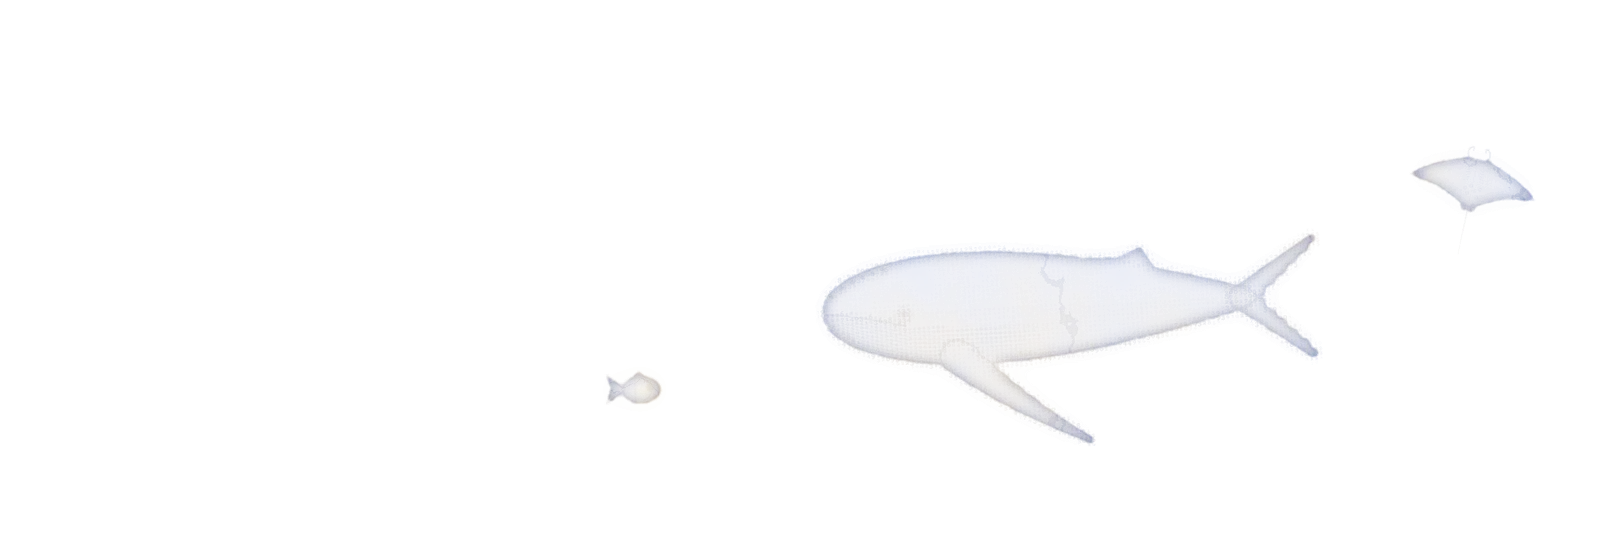
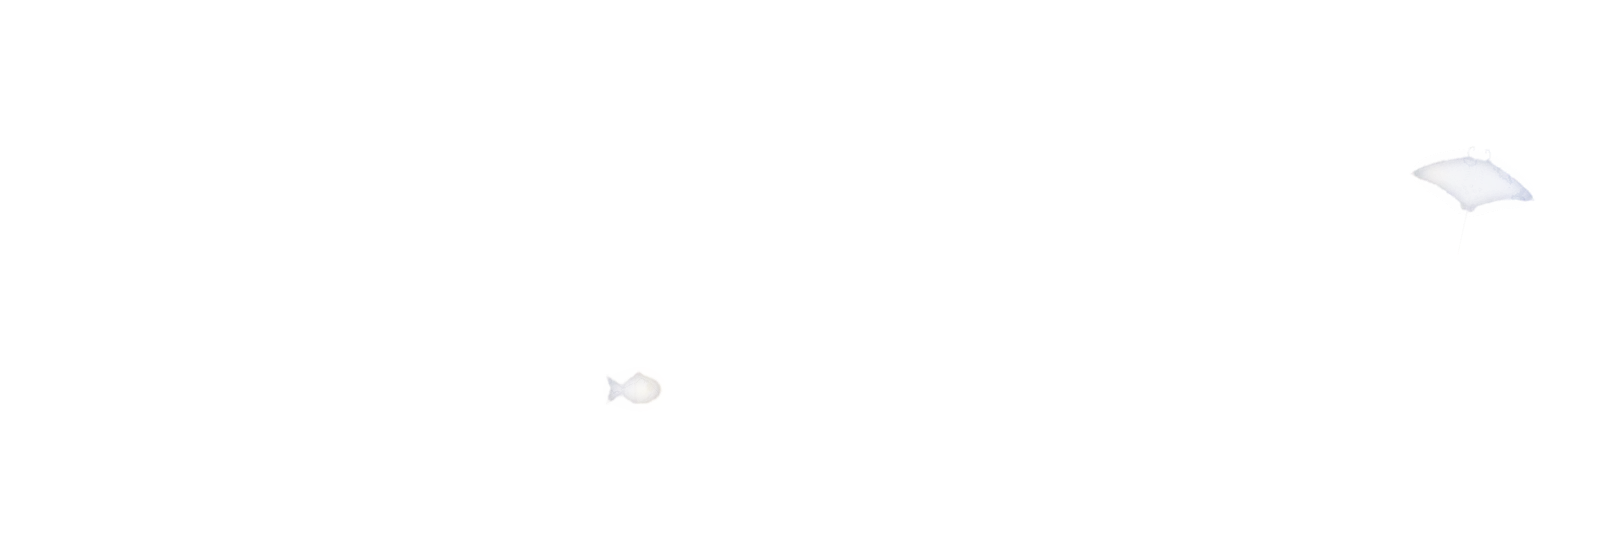
Home: quieter painted sheet, no whale, a few brushed swells
Creatures painted at 60% strength and fainter stars; the whale by the
heading is gone (a fish and a manta stay); a seamless tile of faint
dry-brush wave strokes sits over the wash.

diff --git a/scripts/paint/creatures.py b/scripts/paint/creatures.py
@@ -1,7 +1,8 @@
 # Paints the sky cast as watercolour for the homepage projects sheet.
-#   creatures-top.webp     whale (+ a manta) beside the "Selected work" heading
+#   creatures-top.webp     a fish and a manta beside the "Selected work" heading
 #   creatures-bottom.webp  turtle, sea star and fish on a painted sea floor under the last row
 #   stars-tile.webp        seamless sparse painted stars
+#   waves-tile.webp        seamless faint watercolour wave strokes
 # Shapes come from the site's own sky-cast.js fields (rendered by shapes.mjs),
 # so they match the creatures drifting in the background sky.
 import sys, json, numpy as np
@@ -61,6 +62,7 @@ def paint(name, scale, seed, rot=0, flip=False, digits=.5, tint=0.):
     da = Dn[..., 3] * digits
     out[..., :3] = out[..., :3] * (1 - da[..., None]) + CREAM * da[..., None]
     out[..., 3] = np.clip(out[..., 3] + da * (1 - out[..., 3]), 0, 1)
+    out[..., 3] *= 0.6                                    # quiet: a glaze, not a sticker
     im = Image.fromarray(np.clip(np.dstack([out[..., :3], out[..., 3:] * 255]), 0, 255).astype(np.uint8), 'RGBA')
     if flip: im = im.transpose(Image.FLIP_LEFT_RIGHT)
     if rot: im = im.rotate(rot, Image.BICUBIC, expand=True)
@@ -69,9 +71,8 @@ def paint(name, scale, seed, rot=0, flip=False, digits=.5, tint=0.):
 def over(canvas, im, x, y):
     canvas.alpha_composite(im, (int(x - im.width / 2), int(y - im.height / 2)))
 
-# ---- top: the whale beside the heading, a manta further out ----
+# ---- top: a fish beside the heading, a manta further out ----
 top = Image.new('RGBA', (1600, 560))
-over(top, paint('whale', .66, 11, rot=4), 1060, 300)
 over(top, paint('manta', .42, 21, rot=-12, digits=.45), 1470, 200)
 over(top, paint('fish', .55, 31, flip=True, digits=.5, tint=.3), 640, 390)
 top.save(f'{OUT}/creatures-top.webp', quality=78, alpha_quality=70, method=6)
@@ -105,7 +106,7 @@ for i in range(26):
     spikes = (np.exp(-(np.abs(xx) / (s * .18)) ** 2) * np.exp(-(np.abs(yy) / (s * 2.6)) ** 2) +
               np.exp(-(np.abs(yy) / (s * .18)) ** 2) * np.exp(-(np.abs(xx) / (s * 2.6)) ** 2)) * (s > 6)
     halo = np.exp(-(d / (s * 2.2)) ** 2) * .25
-    a = np.clip(core + spikes * .45 + halo, 0, 1) * r.uniform(.3, .65)
+    a = np.clip(core + spikes * .3 + halo, 0, 1) * r.uniform(.15, .38)
     tint = r.uniform(0, 1)
     rgb = np.ones(a.shape + (3,)) * (MOON * (1 - tint) + CREAM * tint)
     im = Image.fromarray(np.dstack([rgb, a * 255]).astype(np.uint8), 'RGBA')
@@ -113,4 +114,22 @@ for i in range(26):
         for oy in (-N, 0, N):
             st.alpha_composite(im, (int(cx - sz + ox), int(cy - sz + oy))) if -2 * sz < cx + ox < N + 2 * sz and -2 * sz < cy + oy < N + 2 * sz else None
 st.save(f'{OUT}/stars-tile.webp', quality=80, alpha_quality=70, method=6)
+
+# ---- waves: a few loose brush strokes of swell, seamless in both directions ----
+N = 1024
+yy, xx = np.mgrid[0:N, 0:N].astype(float)
+streak = fnoise(N, N // 8, 1.1, 81)
+streak = np.array(Image.fromarray((streak * 255).astype(np.uint8)).resize((N, N), Image.BILINEAR), float) / 255
+wa = np.zeros((N, N))
+r = np.random.default_rng(9)
+for k in range(5):
+    y0 = (k + r.uniform(.2, .8)) * N / 5
+    amp, per, ph = r.uniform(10, 22), N / r.choice([1, 2, 3]), r.uniform(0, 2 * np.pi)
+    cy = y0 + amp * np.sin(2 * np.pi * xx / per + ph)             # whole periods across, so it tiles sideways
+    d = np.minimum(np.abs(yy - cy), N - np.abs(yy - cy))           # and wraps top to bottom
+    width = 2.5 + 2 * (0.5 + 0.5 * np.sin(2 * np.pi * xx / per + ph + 1.3))   # thicker on the crests
+    stroke = np.exp(-(d / width) ** 2) * np.clip((streak - .35) * 3, 0, 1)      # dry brush breaks it up
+    wa = np.maximum(wa, stroke * r.uniform(.10, .18))
+rgb = np.ones((N, N, 3)) * MOON
+Image.fromarray(np.dstack([rgb, wa * 255]).astype(np.uint8), 'RGBA').save(f'{OUT}/waves-tile.webp', quality=80, alpha_quality=70, method=6)
 print('ok')

diff --git a/scripts/paint/README.md b/scripts/paint/README.md
@@ -4,6 +4,6 @@ Generators for `public/images/paint/` (the watercolour sheet behind Selected wor
 
 1. `node scripts/paint/shapes.mjs <shapes-dir>` renders each creature's field and digit drawing from `public/scripts/sky-cast.js`.
 2. `python scripts/paint/wash.py <out-dir>` makes `wash-tile.webp` and the brush edge (`wash-edge.webp`, flipped for `wash-edge-b.webp`, resized to 1600x280).
-3. `python scripts/paint/creatures.py <shapes-dir> <out-dir>` paints `creatures-top.webp`, `creatures-bottom.webp` and `stars-tile.webp`.
+3. `python scripts/paint/creatures.py <shapes-dir> <out-dir>` paints `creatures-top.webp`, `creatures-bottom.webp`, `stars-tile.webp` and `waves-tile.webp`.
 
 Needs Python with numpy and Pillow, and Playwright with Chrome for step 1.
